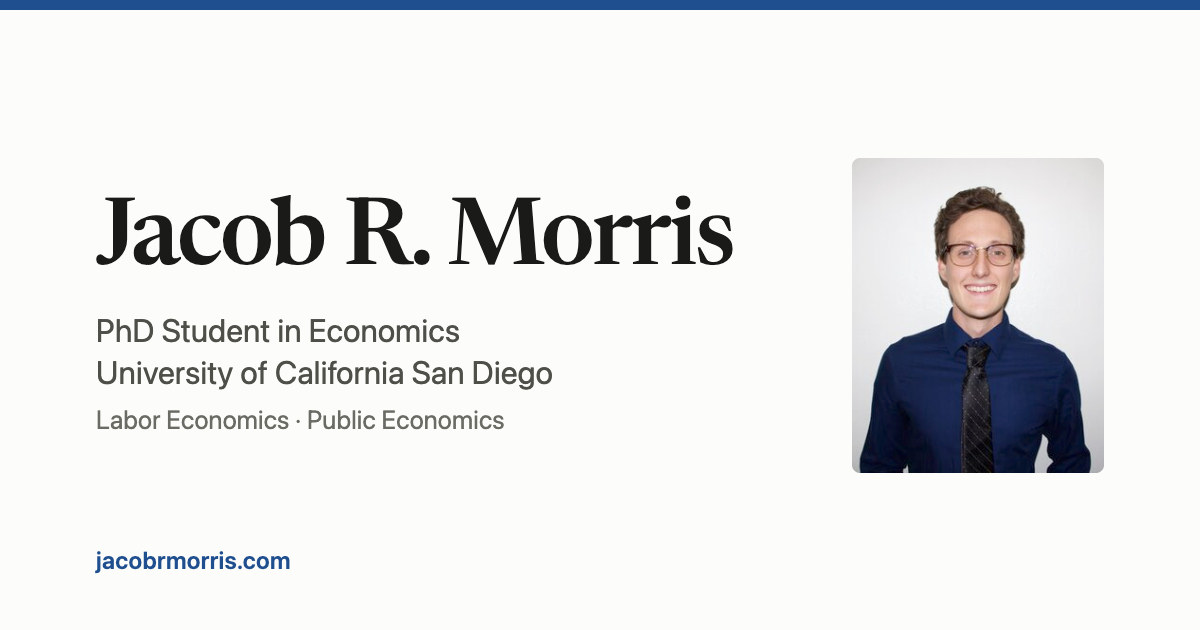
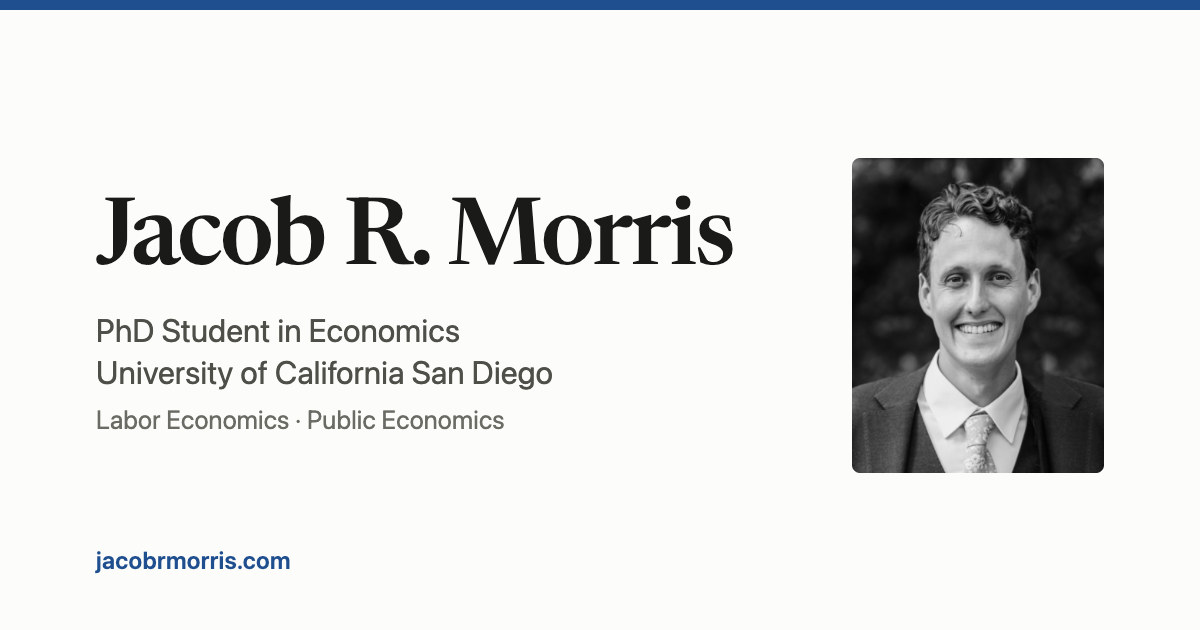
New headshot; version image URLs
- Replace the 266x333 headshot with a 720x900 black-and-white portrait
  cropped from a full-resolution original, and update the share card
- Add the build version to the headshot and share-card URLs (as the CSS
  and JS already have) so browsers and link previews fetch new images
  after an update

Changed region(s): [[0.7092, 0.2413, 0.925, 0.754]]

diff --git a/index.html b/index.html
@@ -11,12 +11,13 @@
 {%- assign jmp = nil -%}
 {%- if job_market -%}{%- assign jmp = site.data.research | where: "jmp", true | first -%}{%- endif -%}
 {%- assign jmp_link = jmp.links | first -%}
+{%- assign asset_version = site.time | date: '%s' -%}
 
 <div class="wrap layout">
   <header id="contact" class="profile">
     <picture class="profile-photo">
-      <source srcset="{{ '/assets/img/headshot.webp' | relative_url }}" type="image/webp">
-      <img src="{{ profile.photo.src | relative_url }}" alt="{{ profile.photo.alt }}" width="266" height="333" fetchpriority="high">
+      <source srcset="{{ '/assets/img/headshot.webp' | relative_url }}?v={{ asset_version }}" type="image/webp">
+      <img src="{{ profile.photo.src | relative_url }}?v={{ asset_version }}" alt="{{ profile.photo.alt }}" width="720" height="900" fetchpriority="high">
     </picture>
     <h1>{{ profile.name }}</h1>
     <p class="profile-position">{{ profile.position }}<br>{{ profile.institution }}</p>

diff --git a/_includes/head.html b/_includes/head.html
@@ -38,7 +38,7 @@
   <meta property="og:title" content="{{ page_title }}">
   <meta property="og:description" content="{{ description }}">
   <meta property="og:url" content="{{ page.url | absolute_url }}">
-  <meta property="og:image" content="{{ '/assets/img/social-card.jpg' | absolute_url }}">
+  <meta property="og:image" content="{{ '/assets/img/social-card.jpg' | absolute_url }}?v={{ asset_version }}">
   <meta property="og:image:width" content="1200">
   <meta property="og:image:height" content="630">
   <meta property="og:image:alt" content="{{ profile.name }}, {{ profile.position }}, {{ profile.institution }}">
